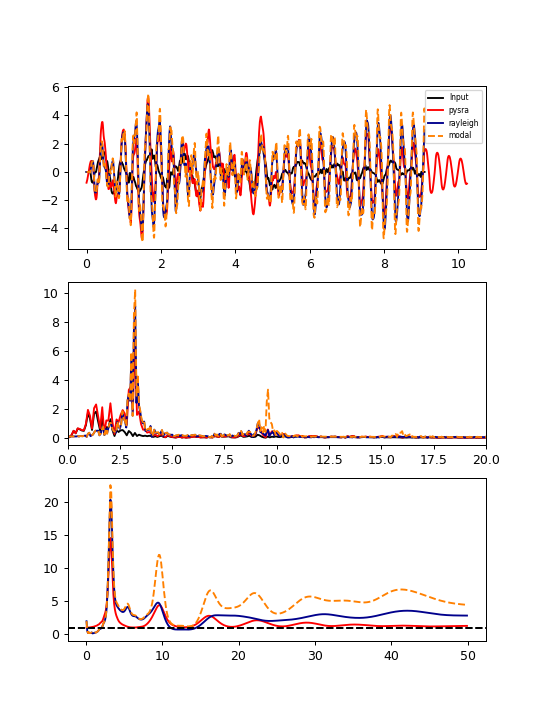
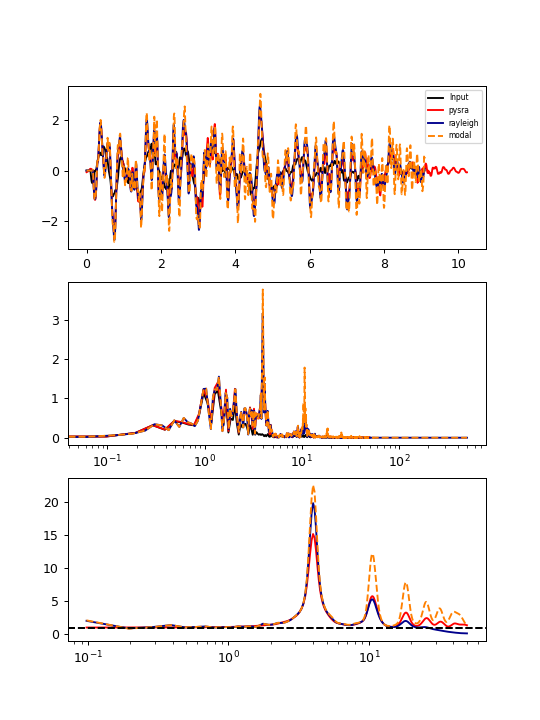
refactored to figs/

diff --git a/compare_integrators/geotech/fig_compare_sra_elastic_comp_base_w_diff_integrators.py b/compare_integrators/geotech/fig_compare_sra_elastic_comp_base_w_diff_integrators.py
@@ -31,13 +31,22 @@ def site_response(sp, asig, freqs=(0.5, 10), xi=0.03, dy=0.5, analysis_time=None
 
     osi = o3.OpenSeesInstance(ndm=2, ndf=2, state=3)
     assert isinstance(sp, sm.SoilProfile)
-    sp.gen_split(props=['shear_vel', 'unit_mass'], target=dy)
+    sp.gen_split(props=['shear_vel', 'unit_mass', 'g_mod', 'poissons_ratio'], target=dy)
     thicknesses = sp.split["thickness"]
     n_node_rows = len(thicknesses) + 1
     node_depths = np.cumsum(sp.split["thickness"])
     node_depths = np.insert(node_depths, 0, 0)
     ele_depths = (node_depths[1:] + node_depths[:-1]) / 2
-
+    rho = sp.split['unit_mass']
+    g_mod = sp.split['g_mod']
+    poi = sp.split['poissons_ratio']
+    lam = 2 * g_mod * poi / (1 - 2 * poi)
+    mu = g_mod
+    v_dil = np.sqrt((lam + 2 * mu) / rho)
+    ele_h = sp.split['thickness']
+    dts = ele_h / v_dil
+    min_dt = min(dts)
+    print('min_dt: ', min_dt)
     grav = 9.81
 
     ele_width = min(thicknesses)
@@ -113,7 +122,7 @@ def site_response(sp, asig, freqs=(0.5, 10), xi=0.03, dy=0.5, analysis_time=None
         nodes = [sn[i+1][0], sn[i+1][1], sn[i][1], sn[i][0]]  # anti-clockwise
         eles.append(o3.element.SSPquad(osi, nodes, mat, o3.cc.PLANE_STRAIN, ele_thick, 0.0, -grav))
 
-    # Static analysis
+    # Gravity analysis
     o3.constraints.Transformation(osi)
     o3.test_check.NormDispIncr(osi, tol=1.0e-5, max_iter=30, p_flag=0)
     o3.algorithm.Newton(osi)
@@ -122,12 +131,6 @@ def site_response(sp, asig, freqs=(0.5, 10), xi=0.03, dy=0.5, analysis_time=None
     o3.integrator.Newmark(osi, 5./6, 4./9)  # include numerical damping
     o3.analysis.Transient(osi)
     o3.analyze(osi, 40, 1.)
-
-    for i, soil_mat in enumerate(soil_mats):
-        if hasattr(soil_mat, 'update_to_nonlinear'):
-            print('Update model to nonlinear')
-            soil_mat.update_to_nonlinear()
-    o3.analyze(osi, 50, 0.5)
 
     # reset time and analysis
     o3.set_time(osi, 0.0)
@@ -181,9 +184,7 @@ def site_response(sp, asig, freqs=(0.5, 10), xi=0.03, dy=0.5, analysis_time=None
     o3.test_check.NormDispIncr(osi, tol=1.0e-6, max_iter=10)
     o3.numberer.RCM(osi)
     if etype == 'implicit':
-        # o3.algorithm.Newton(osi)
         o3.system.ProfileSPD(osi)
-        # o3.integrator.Newmark(osi, gamma=0.5, beta=0.25)
         o3.algorithm.NewtonLineSearch(osi, 0.75)
         o3.integrator.Newmark(osi, 0.5, 0.25)
         dt = 0.001
@@ -192,19 +193,18 @@ def site_response(sp, asig, freqs=(0.5, 10), xi=0.03, dy=0.5, analysis_time=None
         if etype == 'newmark_explicit':
             o3.system.ProfileSPD(osi)
             o3.integrator.NewmarkExplicit(osi, gamma=0.5)
-            explicit_dt = periods[-1] / np.pi / 64
+            explicit_dt = min_dt / 1
         elif etype == 'central_difference':
             o3.system.FullGeneral(osi)
             o3.integrator.CentralDifference(osi)
-            explicit_dt = periods[-1] / np.pi / 64
+            explicit_dt = min_dt / 1
         elif etype == 'explicit_difference':
             # o3.system.FullGeneral(osi)
             o3.system.Diagonal(osi)
             o3.integrator.ExplicitDifference(osi)
-            explicit_dt = periods[-1] / np.pi / 64
+            explicit_dt = min_dt / 2  # need reduced time step due to Rayleigh damping
         else:
             raise ValueError(etype)
-        print('explicit_dt: ', explicit_dt)
         ndp = np.ceil(np.log10(explicit_dt))
         if 0.5 * 10 ** ndp < explicit_dt:
             dt = 0.5 * 10 ** ndp
@@ -214,16 +214,17 @@ def site_response(sp, asig, freqs=(0.5, 10), xi=0.03, dy=0.5, analysis_time=None
             dt = 0.1 * 10 ** ndp
         else:
             raise ValueError(explicit_dt, 0.1 * 10 ** ndp)
+        print('explicit_dt: ', explicit_dt, dt)
+
     use_modal_damping = 0
     if not use_modal_damping or etype in ['newmark_explicit', 'central_difference']:  # Does not support modal damping
         omega_1 = 2 * np.pi * freqs[0]
         omega_2 = 2 * np.pi * freqs[1]
         a0 = 2 * xi * omega_1 * omega_2 / (omega_1 + omega_2)
         a1 = 2 * xi / (omega_1 + omega_2)
-        o3.rayleigh.Rayleigh(osi, a0, a1, 0, 0)
+        o3.rayleigh.Rayleigh(osi, a0, 0, a1, 0)
     else:
         o3.ModalDamping(osi, [xi])
-
     o3.analysis.Transient(osi)
 
     ts_obj = o3.time_series.Path(osi, dt=asig.dt, values=asig.velocity * 1, factor=c_base)
@@ -295,7 +296,7 @@ def run():
     # analysis with O3
     etypes = ['implicit', 'explicit_difference', 'central_difference', 'newmark_explicit']
     etypes = ['implicit', 'explicit_difference']  # , ''
-    etypes = ['explicit_difference']
+    # etypes = ['explicit_difference']
     ls = ['-', '--', ':', '-.']
 
     for i, etype in enumerate(etypes):
@@ -319,7 +320,7 @@ def run():
     sps[0].legend(prop={'size': 6})
     name = __file__.replace('.py', '')
     name = name.split("fig_")[-1]
-    # bf.savefig(f'figures/{name}.png', dpi=90)
+    bf.savefig(f'figs/{name}.png', dpi=90)
     plt.show()
 
     # assert np.isclose(o3_surf_vals, pysra_sig.values, atol=0.01, rtol=100).all()

diff --git a/compare_damping_models/fig_sra_elastic_w_diff_damping.py b/compare_damping_models/fig_sra_elastic_w_diff_damping.py
@@ -47,13 +47,10 @@ def site_response(sp, asig, freqs=(0.5, 10), xi=0.03, analysis_dt=0.001, dy=0.5,
     a0 = 2 * xi * omega_1 * omega_2 / (omega_1 + omega_2)
     a1 = 2 * xi / (omega_1 + omega_2)
 
-    k0 = 0.5
-
     newmark_gamma = 0.5
     newmark_beta = 0.25
 
     ele_width = min(thicknesses)
-    total_soil_nodes = len(thicknesses) * 2 + 2
 
     # Define nodes and set boundary conditions for simple shear deformation
     # Start at top and build down?
@@ -122,14 +119,9 @@ def site_response(sp, asig, freqs=(0.5, 10), xi=0.03, analysis_dt=0.001, dy=0.5,
     o3.algorithm.Newton(osi)
     o3.numberer.RCM(osi)
     o3.system.ProfileSPD(osi)
-    o3.integrator.Newmark(osi, newmark_gamma, newmark_beta)
+    o3.integrator.Newmark(osi, 5./6, 4./9)  # include numerical damping
     o3.analysis.Transient(osi)
     o3.analyze(osi, 40, 1.)
-
-    for i in range(len(soil_mats)):
-        if isinstance(soil_mats[i], o3.nd_material.PM4Sand) or isinstance(soil_mats[i], o3.nd_material.PressureIndependMultiYield):
-            o3.update_material_stage(osi, soil_mats[i], 1)
-    o3.analyze(osi, 50, 0.5)
 
     # reset time and analysis
     o3.set_time(osi, 0.0)
@@ -221,8 +213,6 @@ def site_response(sp, asig, freqs=(0.5, 10), xi=0.03, analysis_dt=0.001, dy=0.5,
 
 
 def run():
-    soil_profile = sm.SoilProfile()
-    soil_profile.height = 30.0
     xi = 0.03
 
     sl = sm.Soil()
@@ -232,8 +222,6 @@ def run():
     sl.poissons_ratio = 0.3
     sl.unit_dry_weight = unit_mass * 9.8
     sl.xi = xi  # for linear analysis
-    sl.sra_type = 'linear'
-    soil_profile.add_layer(0, sl)
 
     sl_base = sm.Soil()
     vs = 350.
@@ -241,15 +229,18 @@ def run():
     sl_base.g_mod = vs ** 2 * unit_mass
     sl_base.poissons_ratio = 0.3
     sl_base.unit_dry_weight = unit_mass * 9.8
-    sl_base.sra_type = 'linear'
     sl_base.xi = xi  # for linear analysis
-    soil_profile.add_layer(19., sl_base)
+    soil_profile = sm.SoilProfile()
+    soil_profile.add_layer(0, sl)
+    soil_profile.add_layer(10., sl_base)
     soil_profile.height = 20.0
-    gm_scale_factor = 1.5
+    gm_scale_factor = 1.0
     record_filename = 'short_motion_dt0p01.txt'
     in_sig = eqsig.load_asig(ap.MODULE_DATA_PATH + 'gms/' + record_filename, m=gm_scale_factor)
 
     # analysis with pysra
+    sl.sra_type = 'linear'
+    sl_base.sra_type = 'linear'
     od = lq.sra.run_pysra(soil_profile, in_sig, odepths=np.array([0.0]), wave_field='within')
     pysra_sig = eqsig.AccSignal(od['ACCX'][0], in_sig.dt)
 
@@ -262,9 +253,9 @@ def run():
     sps[0].plot(in_sig.time, in_sig.values, c='k', label='Input')
     sps[0].plot(pysra_sig.time, pysra_sig.values, c='r', label='pysra')
     sps[1].plot(in_sig.fa_frequencies, abs(in_sig.fa_spectrum), c='k')
-    sps[1].plot(pysra_sig.fa_frequencies, abs(pysra_sig.fa_spectrum), c='r')
+    sps[1].semilogx(pysra_sig.fa_frequencies, abs(pysra_sig.fa_spectrum), c='r')
     pysra_h = pysra_sig.smooth_fa_spectrum / in_sig.smooth_fa_spectrum
-    sps[2].plot(pysra_sig.smooth_fa_frequencies, pysra_h, c='r')
+    sps[2].semilogx(pysra_sig.smooth_fa_frequencies, pysra_h, c='r')
 
     # analysis with O3
     dtypes = ['rayleigh', 'modal']  # ,, 'central_difference', 'newmark_explicit',
@@ -278,7 +269,9 @@ def run():
         outputs_exp = site_response(soil_profile, in_sig, freqs=(0.5, 10), xi=xi, dtype=dtype)
         print("--- %s seconds ---" % (time.time() - start_time))
         resp_dt = outputs_exp['time'][2] - outputs_exp['time'][1]
-        surf_sig = eqsig.AccSignal(outputs_exp['ACCX'][0], resp_dt)
+        abs_surf_sig = outputs_exp['ACCX'][0] + np.interp(np.arange(len(outputs_exp['ACCX'][0])) * resp_dt, in_sig.time,
+                                                          in_sig.values)
+        surf_sig = eqsig.AccSignal(abs_surf_sig, resp_dt)
         surf_sig.smooth_fa_frequencies = in_sig.fa_frequencies[1:]
         sps[0].plot(surf_sig.time, surf_sig.values, c=cbox(i), label=dtype, ls=ls[i])
         sps[1].plot(surf_sig.fa_frequencies, abs(surf_sig.fa_spectrum), c=cbox(i), ls=ls[i])
@@ -286,7 +279,6 @@ def run():
         sps[2].plot(surf_sig.smooth_fa_frequencies, h, c=cbox(i), ls=ls[i])
 
         sps[2].axhline(1, c='k', ls='--')
-    sps[1].set_xlim([0, 20])
 
     sps[0].legend(prop={'size': 6})
     name = __file__.replace('.py', '')

diff --git a/compare_integrators/geotech/fig_compare_sra_elastic_fixed_base_w_diff_integrators.py b/compare_integrators/geotech/fig_compare_sra_elastic_fixed_base_w_diff_integrators.py
@@ -171,7 +171,7 @@ def site_response(sp, asig, freqs=(0.5, 10), xi=0.03, dy=0.5, analysis_time=None
         o3.integrator.Newmark(osi, 0.5, 0.25)
         dt = 0.001
     else:
-        o3.algorithm.Linear(osi)
+        o3.algorithm.Linear(osi, factor_once=True)
         if etype == 'newmark_explicit':
             o3.system.ProfileSPD(osi)
             o3.integrator.NewmarkExplicit(osi, gamma=0.5)

diff --git a/compare_integrators/geotech/fig_compare_sra_pimy_fixed_base_w_diff_integrators.py b/compare_integrators/geotech/fig_compare_sra_pimy_fixed_base_w_diff_integrators.py
@@ -319,7 +319,7 @@ def run():
     name = __file__.replace('.py', '')
     name = name.split("fig_")[-1]
     bf.suptitle(name)
-    bf.savefig(f'figures/{name}.png', dpi=90)
+    bf.savefig(f'figs/{name}.png', dpi=90)
     plt.show()
 
 
